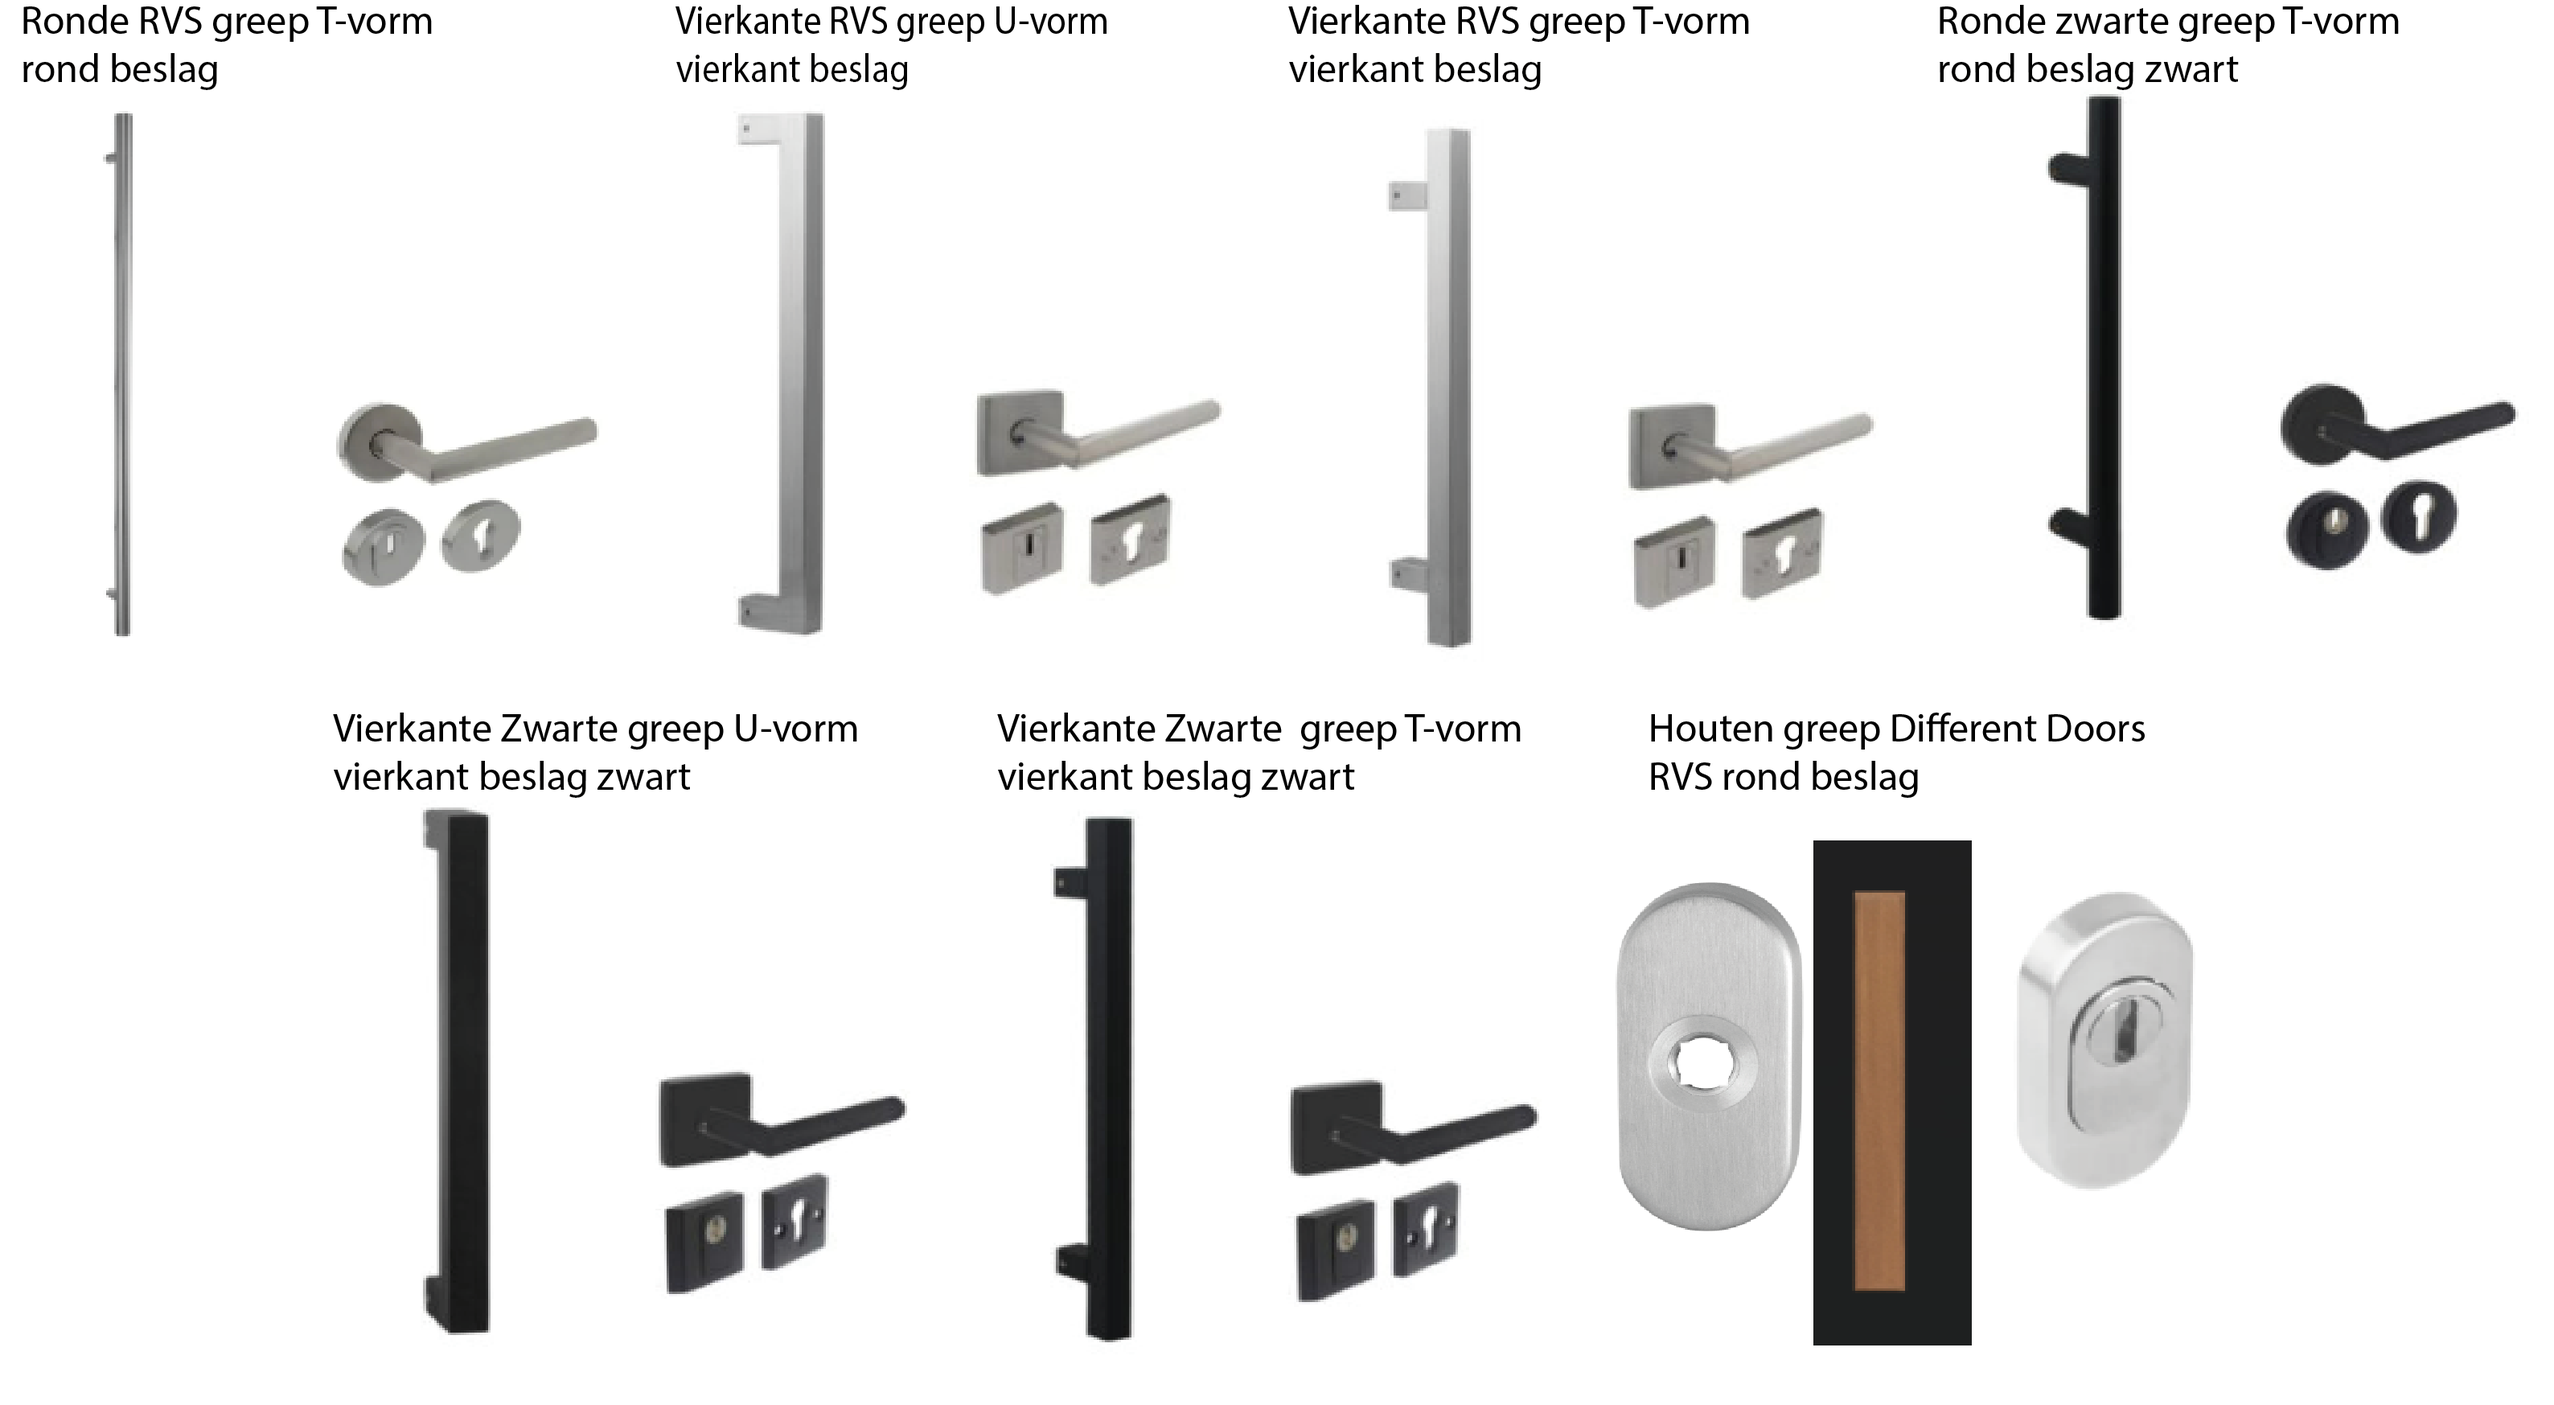
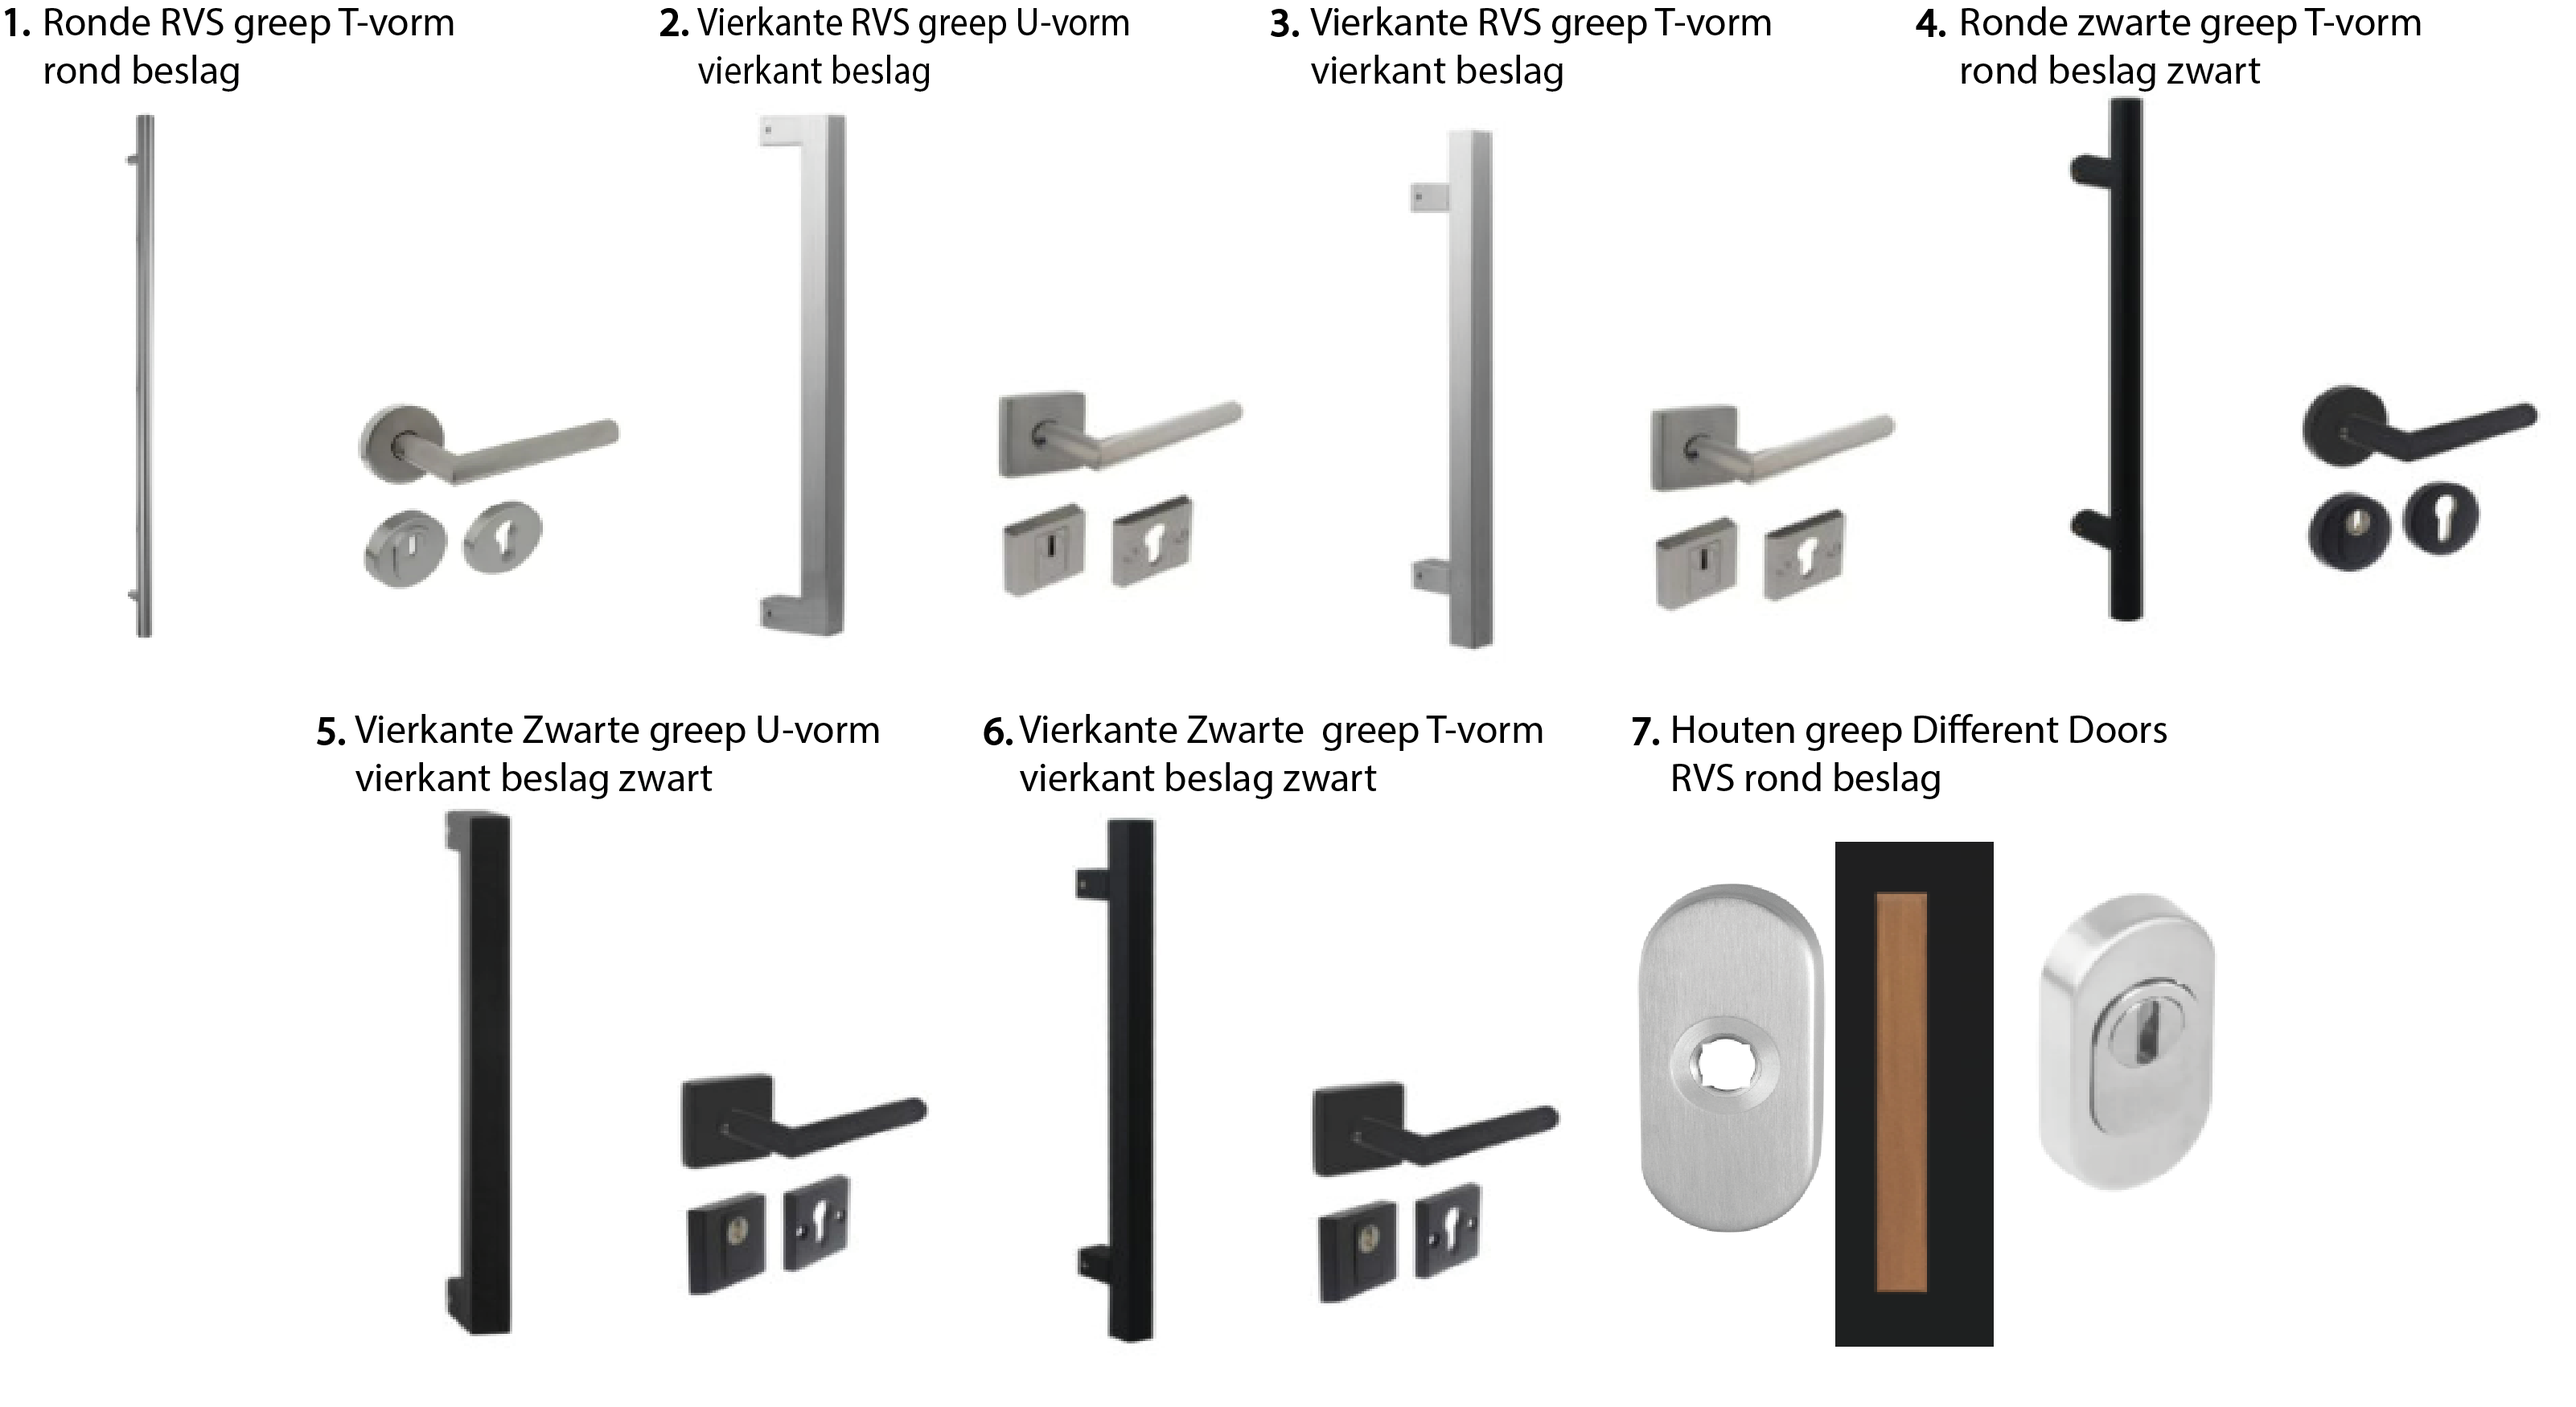
update sdh

diff --git a/src/app/_pages/verkoop/forms/form/forms/sdh.ts b/src/app/_pages/verkoop/forms/form/forms/sdh.ts
@@ -148,7 +148,7 @@ export const buitenzijde: QuestionBase<string>[] = [
     options: [
       {value: 'Delen (planken)'},
       {value: 'Latten'},
-      {value: 'Aangeleverde delen of latten'},//
+      {value: 'Aangeleverde delen of latten'},
       {value: 'Trespa'},
       {value: 'Bossing'},
       {value: 'Sierlijsten'},
@@ -187,7 +187,9 @@ export const buitenzijde: QuestionBase<string>[] = [
         field: 'behandeling',
         values: ['Transparant (Tweemaal gegrond)']
       }
-    ]
+    ],
+    other: true,
+    custom: ''
   }),
   new TextQuestion({
     label: 'Dekkend (tweemaal gegrond)',
@@ -448,9 +450,10 @@ export const glas: QuestionBase<string>[] = [
       {value: 'N.v.t.'},
       {value: 'HR++ helder glas'},
       {value: 'HR++ melk glas'},
-      {value: 'Overig'},
     ],
-    value: 'N.v.t.'
+    value: 'N.v.t.',
+    other: true,
+    custom: ''
   }),
   new UploadQuestion({
     key: 'foto_sg',
@@ -674,6 +677,10 @@ export const loopdeur: QuestionBase<string>[] = [
     value: 'N.v.t.',
     dependent: [
       {
+        field: 'loopdeur_of_voordeur',
+        values: ['Voordeur']
+      },
+      {
         field: 'loopdeur_voordeur',
         values: ['Geïntegreerd in de gevel', 'Met kozijn', 'Blind kozijn', 'Bestaand kozijn', 'Pivoterende deur']
       }
@@ -684,17 +691,21 @@ export const loopdeur: QuestionBase<string>[] = [
     label: 'Deurgreep voordeur',
     image: 'assets/forms/sdh/Deurset.png',
     options: [
-      {value: 'Vierkante RVS greep T-vorm met vierkant beslag', article: 'VDH400'},
-      {value: 'Vierkante Zwarte  greep T-vorm met vierkant beslag zwart', article: 'VDH401'},
-      {value: 'Vierkante RVS greep U-vorm met vierkant beslag', article: 'VDH402'},
-      {value: 'Vierkante Zwarte greep U-vorm met vierkant beslag zwart', article: 'VDH403'},
-      {value: 'Ronde RVS greep T-vorm met rond beslag', article: 'VDH404'},
-      {value: 'Ronde zwarte greep T-vorm met rond beslag zwart', article: 'VDH405'},
-      {value: 'Houten greep Different Doors met RVS rond beslag', article: 'VDH406'},
+      {value: '1. Ronde RVS greep T-vorm met rond beslag', article: 'VDH404'},
+      {value: '2. Vierkante RVS greep U-vorm met vierkant beslag', article: 'VDH402'},
+      {value: '3. Vierkante RVS greep T-vorm met vierkant beslag', article: 'VDH400'},
+      {value: '4. Ronde zwarte greep T-vorm met rond beslag zwart', article: 'VDH405'},
+      {value: '5. Vierkante Zwarte greep U-vorm met vierkant beslag zwart', article: 'VDH403'},
+      {value: '6. Vierkante Zwarte  greep T-vorm met vierkant beslag zwart', article: 'VDH401'},
+      {value: '7. Houten greep Different Doors met RVS rond beslag', article: 'VDH406'},
       {value: 'Aangeleverd door klant'},
       {value: 'Niet opgenomen in offerte'},
     ],
     dependent: [
+      {
+        field: 'loopdeur_of_voordeur',
+        values: ['Voordeur']
+      },
       {
         field: 'loopdeur_voordeur',
         values: ['Geïntegreerd in de gevel', 'Met kozijn', 'Blind kozijn', 'Bestaand kozijn', 'Pivoterende deur']
@@ -716,6 +727,10 @@ export const loopdeur: QuestionBase<string>[] = [
     value: 'N.v.t.',
     dependent: [
       {
+        field: 'loopdeur_of_voordeur',
+        values: ['Loopdeur']
+      },
+      {
         field: 'loopdeur_voordeur',
         values: ['Geïntegreerd in de gevel', 'Met kozijn', 'Blind kozijn', 'Bestaand kozijn', 'Pivoterende deur']
       }
@@ -726,15 +741,19 @@ export const loopdeur: QuestionBase<string>[] = [
     label: 'Deurgreep loopdeur',
     image: 'assets/forms/sdh/deurbeslag.png',
     options: [
-      {value: 'SKG*** veiligheid set Rond RVS', article: 'VDH300'},
-      {value: 'SKG*** veiligheid set Rond Zwart', article: 'VDH301'},
-      {value: 'SKG*** veiligheid set Vierkant RVS', article: 'VDH302'},
-      {value: 'SKG*** veiligheid set Vierkant Zwart', article: 'VDH303'},
+      {value: '1. SKG*** veiligheid set Rond RVS', article: 'VDH300'},
+      {value: '2. SKG*** veiligheid set Vierkant RVS', article: 'VDH302'},
+      {value: '3. SKG*** veiligheid set Rond Zwart', article: 'VDH301'},
+      {value: '4. SKG*** veiligheid set Vierkant Zwart', article: 'VDH303'},
       {value: 'Veiligheid-shuifrozet met kerntrek Ovaal RVS', article: 'VDH304'},
       {value: 'Aangeleverd door klant'},
       {value: 'Niet opgenomen in offerte'},
     ],
     dependent: [
+      {
+        field: 'loopdeur_of_voordeur',
+        values: ['Loopdeur']
+      },
       {
         field: 'loopdeur_voordeur',
         values: ['Geïntegreerd in de gevel', 'Met kozijn', 'Blind kozijn', 'Bestaand kozijn', 'Pivoterende deur']
@@ -745,7 +764,7 @@ export const loopdeur: QuestionBase<string>[] = [
       }
     ]
   }),
-  new RadioQuestion({
+  new CheckboxQuestion({
     key: 'loopdeur_voordeur_glassectie',
     label: 'Glassectie (van binnenuit gezien)',
     options: [
@@ -754,7 +773,6 @@ export const loopdeur: QuestionBase<string>[] = [
       {value: 'Glas rechts naast de deur'},
       {value: 'Glas in de deur'},
     ],
-    value: 'N.v.t.',
     dependent: [
       {
         field: 'loopdeur_voordeur',
